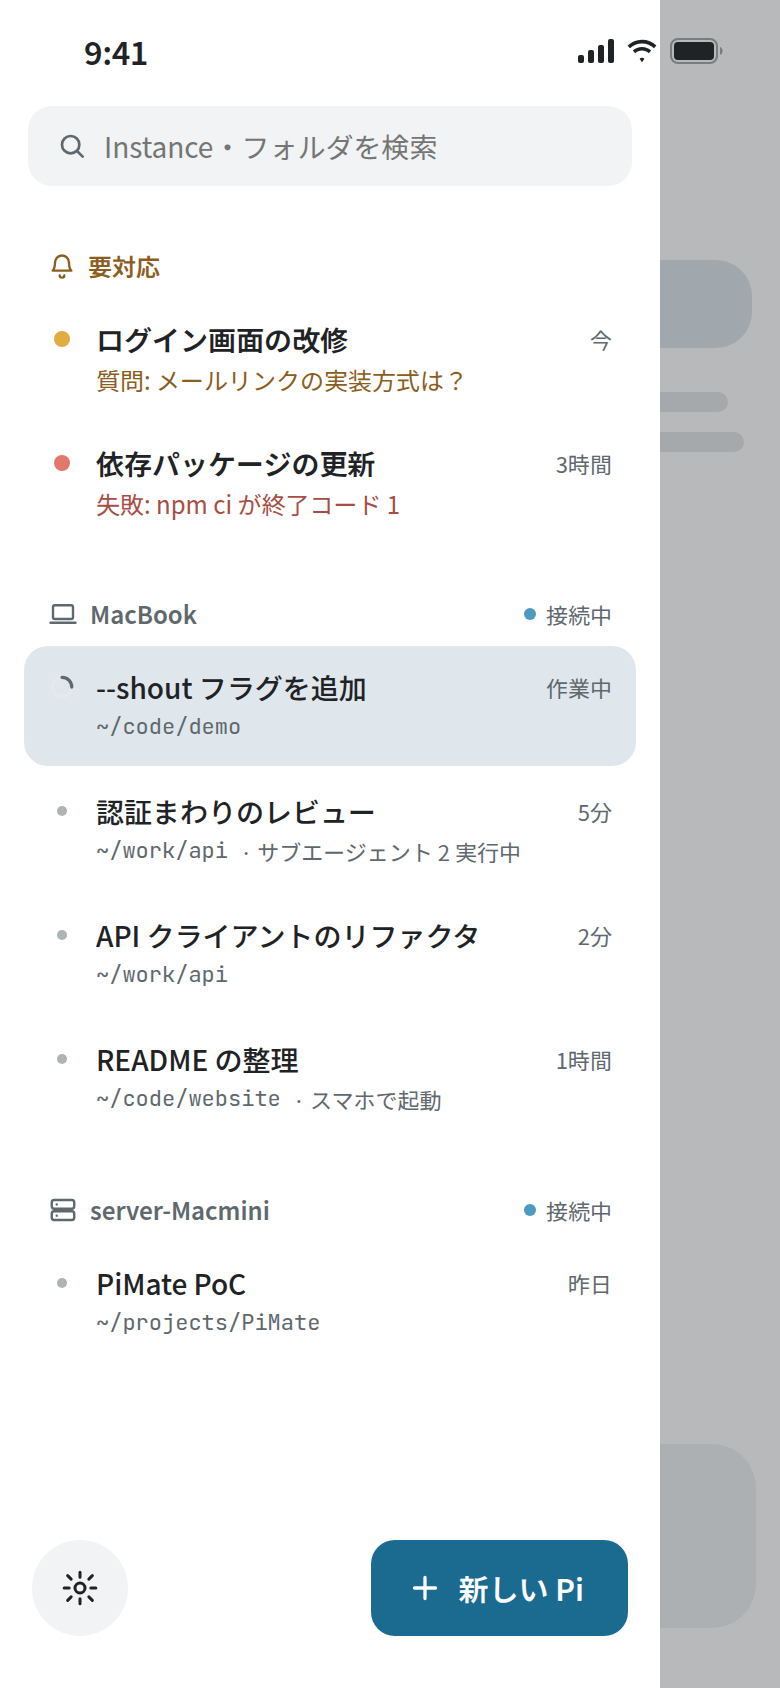
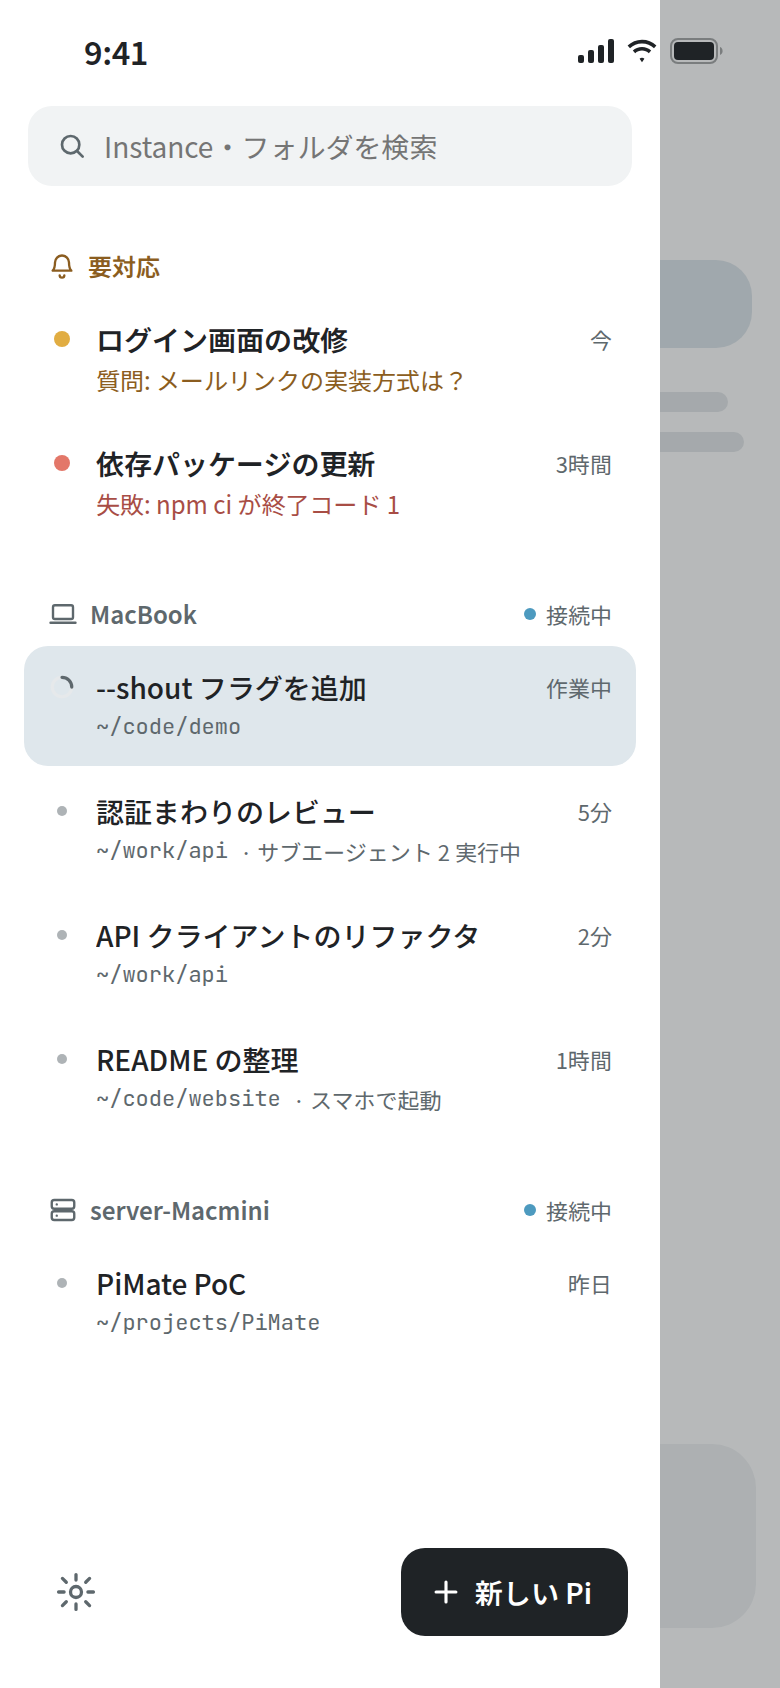
ドロワーの「新しい Pi」を本文色で塗った細身のボタンにする
青い太いブロックとグレーの丸が重く見えたため、白黒反転（ライト=黒地・ダーク=白地）の
高さ 44px・角丸 12px にし、設定は丸地なしの歯車だけにする。SPEC に例外を追記。

Changed region(s): [[0.4615, 0.8934, 0.8308, 0.9858], [0.0615, 0.9242, 0.1231, 0.955]]

diff --git a/docs/design/html/Drawer.html b/docs/design/html/Drawer.html
@@ -222,11 +222,11 @@ html,body{margin:0;overflow:hidden}
     </div>
 
     <div style="display: flex; align-items: center; justify-content: space-between; padding: 8px 4px 0">
-      <button aria-label="設定" style="width: 48px; height: 48px; border: 0; padding: 0; border-radius: 24px; background: #F1F3F4; display: flex; align-items: center; justify-content: center">
-        <svg width="20" height="20" viewBox="0 0 24 24" aria-hidden="true" style="fill: none; stroke: #1F2326; stroke-width: 1.8; stroke-linecap: round; stroke-linejoin: round"><circle cx="12" cy="12" r="3"></circle><path d="M12 2.5v3M12 18.5v3M4.6 4.6l2.1 2.1M17.3 17.3l2.1 2.1M2.5 12h3M18.5 12h3M4.6 19.4l2.1-2.1M17.3 6.7l2.1-2.1"></path></svg>
+      <button aria-label="設定" style="width: 44px; height: 44px; border: 0; padding: 0; border-radius: 22px; background: transparent; display: flex; align-items: center; justify-content: center">
+        <svg width="22" height="22" viewBox="0 0 24 24" aria-hidden="true" style="fill: none; stroke: #5E686D; stroke-width: 1.8; stroke-linecap: round; stroke-linejoin: round"><circle cx="12" cy="12" r="3"></circle><path d="M12 2.5v3M12 18.5v3M4.6 4.6l2.1 2.1M17.3 17.3l2.1 2.1M2.5 12h3M18.5 12h3M4.6 19.4l2.1-2.1M17.3 6.7l2.1-2.1"></path></svg>
       </button>
-      <button aria-label="新しい Pi を起動" style="height: 48px; display: flex; align-items: center; gap: 8px; border: 0; padding: 0 22px 0 18px; border-radius: 12px; background: #1B6B91; color: #FFFFFF; font-family: inherit; font-size: 15px; font-weight: 600">
-        <svg width="18" height="18" viewBox="0 0 24 24" aria-hidden="true" style="fill: none; stroke: currentColor; stroke-width: 2.2; stroke-linecap: round"><path d="M12 5v14M5 12h14"></path></svg>
+      <button aria-label="新しい Pi を起動" style="height: 44px; display: flex; align-items: center; gap: 6px; border: 0; padding: 0 18px 0 14px; border-radius: 12px; background: #1F2326; color: #FFFFFF; font-family: inherit; font-size: 14px; font-weight: 600">
+        <svg width="17" height="17" viewBox="0 0 24 24" aria-hidden="true" style="fill: none; stroke: currentColor; stroke-width: 2.2; stroke-linecap: round"><path d="M12 5v14M5 12h14"></path></svg>
         新しい Pi
       </button>
     </div>

diff --git a/docs/design/mock/Drawer.dc.html b/docs/design/mock/Drawer.dc.html
@@ -91,11 +91,11 @@ html,body{margin:0;overflow:hidden}
     </div>
 
     <div style="display: flex; align-items: center; justify-content: space-between; padding: 8px 4px 0">
-      <button aria-label="設定" style="width: 48px; height: 48px; border: 0; padding: 0; border-radius: 24px; background: #F1F3F4; display: flex; align-items: center; justify-content: center">
-        <svg width="20" height="20" viewBox="0 0 24 24" aria-hidden="true" style="fill: none; stroke: #1F2326; stroke-width: 1.8; stroke-linecap: round; stroke-linejoin: round"><circle cx="12" cy="12" r="3"></circle><path d="M12 2.5v3M12 18.5v3M4.6 4.6l2.1 2.1M17.3 17.3l2.1 2.1M2.5 12h3M18.5 12h3M4.6 19.4l2.1-2.1M17.3 6.7l2.1-2.1"></path></svg>
+      <button aria-label="設定" style="width: 44px; height: 44px; border: 0; padding: 0; border-radius: 22px; background: transparent; display: flex; align-items: center; justify-content: center">
+        <svg width="22" height="22" viewBox="0 0 24 24" aria-hidden="true" style="fill: none; stroke: #5E686D; stroke-width: 1.8; stroke-linecap: round; stroke-linejoin: round"><circle cx="12" cy="12" r="3"></circle><path d="M12 2.5v3M12 18.5v3M4.6 4.6l2.1 2.1M17.3 17.3l2.1 2.1M2.5 12h3M18.5 12h3M4.6 19.4l2.1-2.1M17.3 6.7l2.1-2.1"></path></svg>
       </button>
-      <button aria-label="新しい Pi を起動" style="height: 48px; display: flex; align-items: center; gap: 8px; border: 0; padding: 0 22px 0 18px; border-radius: 12px; background: #1B6B91; color: #FFFFFF; font-family: inherit; font-size: 15px; font-weight: 600">
-        <svg width="18" height="18" viewBox="0 0 24 24" aria-hidden="true" style="fill: none; stroke: currentColor; stroke-width: 2.2; stroke-linecap: round"><path d="M12 5v14M5 12h14"></path></svg>
+      <button aria-label="新しい Pi を起動" style="height: 44px; display: flex; align-items: center; gap: 6px; border: 0; padding: 0 18px 0 14px; border-radius: 12px; background: #1F2326; color: #FFFFFF; font-family: inherit; font-size: 14px; font-weight: 600">
+        <svg width="17" height="17" viewBox="0 0 24 24" aria-hidden="true" style="fill: none; stroke: currentColor; stroke-width: 2.2; stroke-linecap: round"><path d="M12 5v14M5 12h14"></path></svg>
         新しい Pi
       </button>
     </div>

diff --git a/apps/mobile/src/components/InstanceDrawer.tsx b/apps/mobile/src/components/InstanceDrawer.tsx
@@ -127,7 +127,7 @@ export function InstanceDrawer({ navigation }: DrawerContentComponentProps) {
 					}}
 					style={({ pressed }) => [styles.settings, pressed && styles.pressed]}
 				>
-					<GearIcon size={20} color={colors.text} />
+					<GearIcon size={22} />
 				</Pressable>
 				<Pressable
 					accessibilityRole="button"
@@ -138,7 +138,7 @@ export function InstanceDrawer({ navigation }: DrawerContentComponentProps) {
 					}}
 					style={({ pressed }) => [styles.newPi, pressed && styles.pressed]}
 				>
-					<PlusIcon size={18} color={colors.onAccent} />
+					<PlusIcon size={17} color={colors.background} />
 					<Text style={styles.newPiText}>新しい Pi</Text>
 				</Pressable>
 			</View>
@@ -317,23 +317,17 @@ const useStyles = makeStyles(({ colors, typography }) => ({
 		alignItems: "center",
 		justifyContent: "space-between",
 	},
-	settings: {
-		width: 48,
-		height: 48,
-		borderRadius: 24,
-		backgroundColor: colors.surface,
-		alignItems: "center",
-		justifyContent: "center",
-	},
+	settings: { width: 44, height: 44, borderRadius: 22, alignItems: "center", justifyContent: "center" },
+	// Inverted (text-colored) instead of accent: a quiet, Claude-like action that fits both themes.
 	newPi: {
-		minHeight: 48,
+		minHeight: 44,
 		borderRadius: radii.control,
-		backgroundColor: colors.accent,
+		backgroundColor: colors.text,
 		flexDirection: "row",
 		alignItems: "center",
-		gap: 8,
-		paddingLeft: 18,
-		paddingRight: 22,
+		gap: 6,
+		paddingLeft: 14,
+		paddingRight: 18,
 	},
-	newPiText: { fontSize: 15, fontWeight: "600", color: colors.onAccent },
+	newPiText: { fontSize: 14, fontWeight: "600", color: colors.background },
 }));

diff --git a/docs/design/README.md b/docs/design/README.md
@@ -24,7 +24,7 @@
 | ファイル | 画面 | 見るところ |
 |---|---|---|
 | `Main` | チャット — 作業中 | ツール呼び出しの行、送信待ちのメッセージ、送信のタイミング（割り込む / 完了後に送信）、停止 |
-| `Drawer` | ドロワー — Instance 一覧 | 要対応のグループ、マシンごとのグループ、起動元・サブエージェントの補足、最下段（左に設定、右に塗りの「＋ 新しい Pi」） |
+| `Drawer` | ドロワー — Instance 一覧 | 要対応のグループ、マシンごとのグループ、起動元・サブエージェントの補足、最下段（左に設定、右に本文色で塗った「＋ 新しい Pi」） |
 | `Chat-Waiting` | チャット — 入力待ち | チャット内に出すPiからの質問（モーダルにしない）、入力欄の使用状況リング（コンテキスト・Claude・Codex） |
 | `Chat-Edge` | チャット — 再接続と PC 側の操作 | 届いたか未確認のメッセージ、PCでの `/resume` による切り替え、下書きの送信先の確認 |
 | `Chat-Attach` | チャット — PC で操作が必要 | スマホで操作できないExtensionの画面と、`pimate attach` への誘導 |
